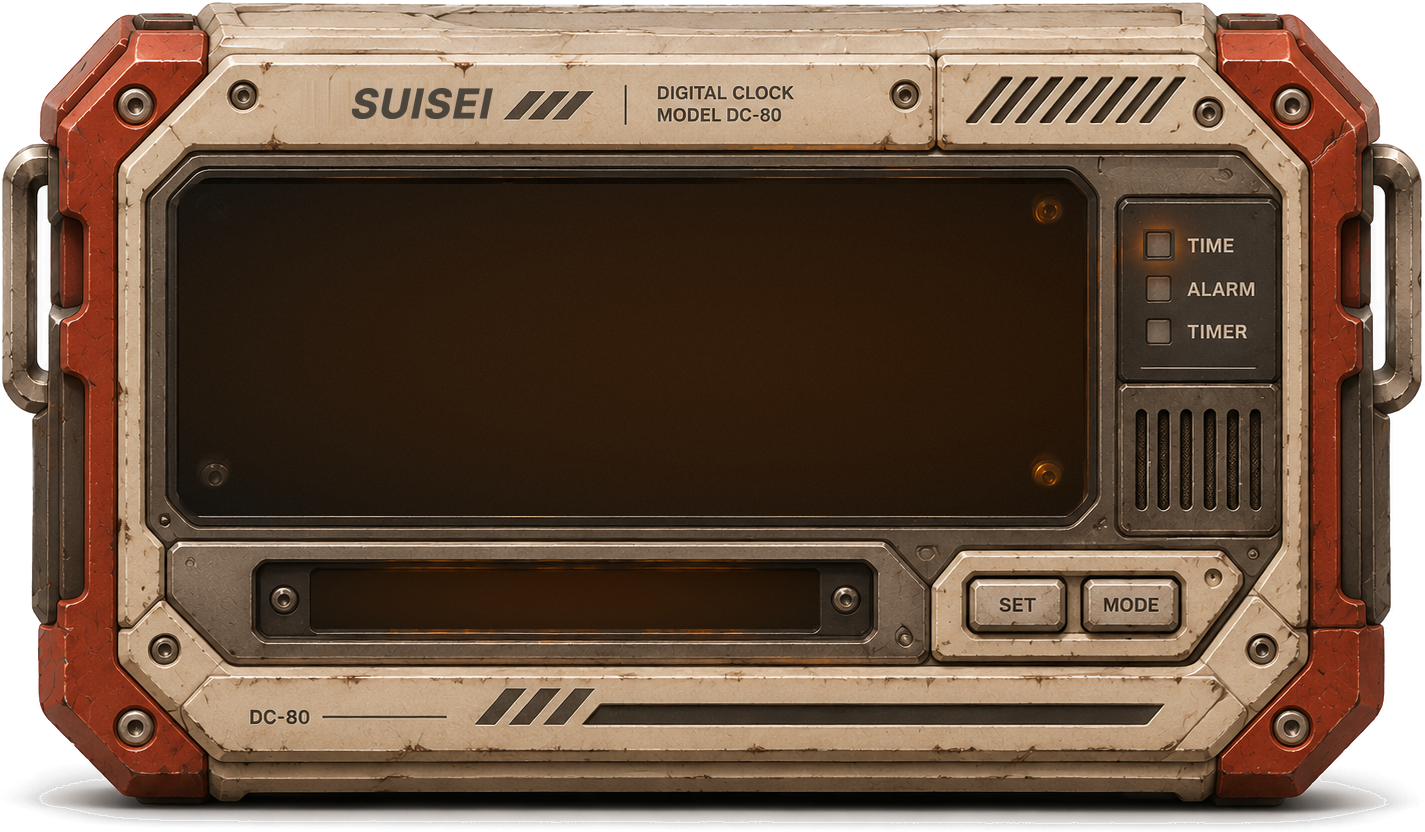
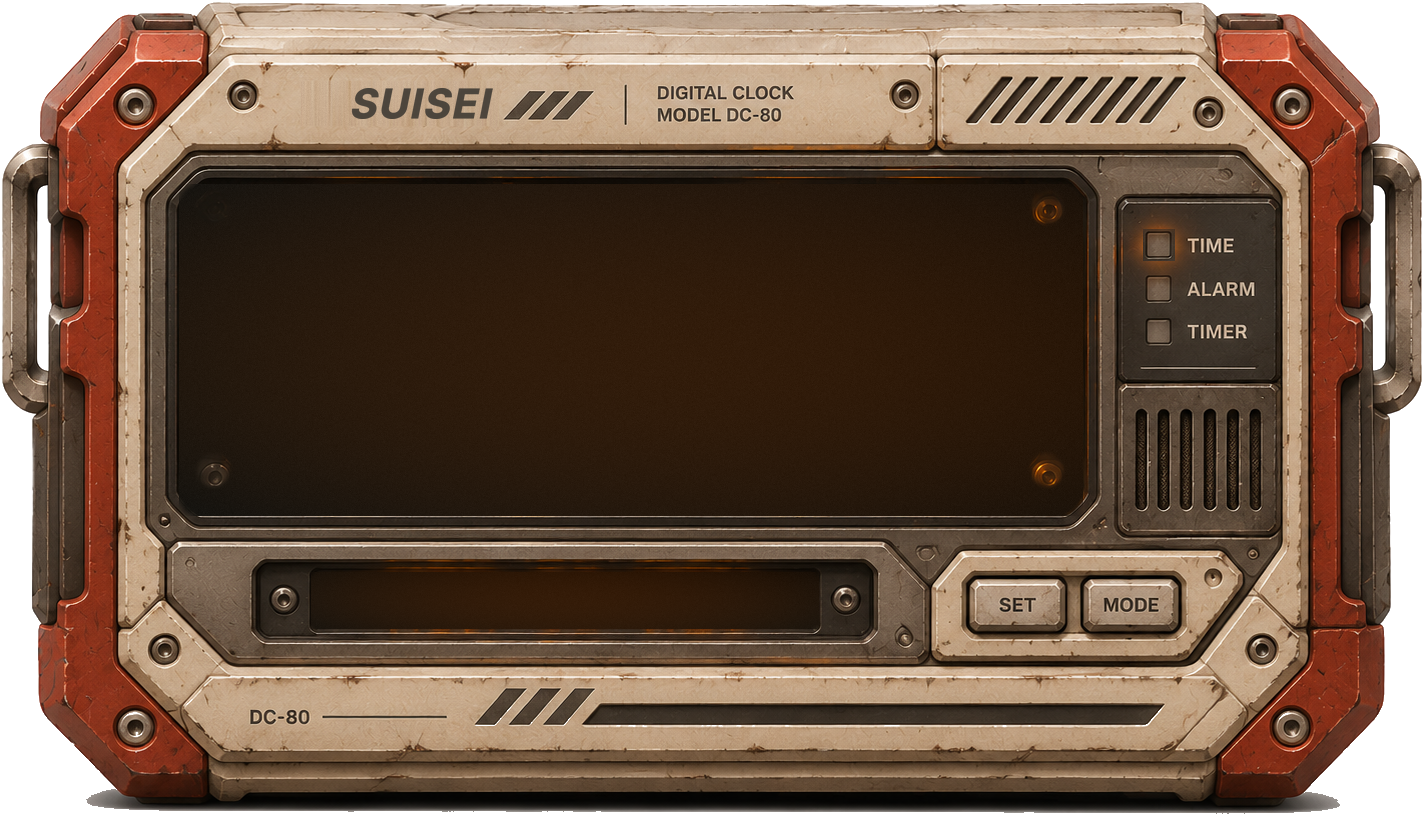
Retro Futurism clock: digits like the mock-up's tube; no white, no shadow
The digits are now mitred slabs (wide uprights, slimmer bars, the outer
corners just cut, a clear diagonal gap at each joint) with a lit, grainy
face and square colon dots: SevenSegment's new 'miter' and 'relief' (the
lock screen's little clock is unchanged; its 'top' is now 'digitTop', the
name Item already had). The white inside the handles' loops is gone, and
the shadow under the clock with it.

Claude-Session: https://claude.ai/code/session_015VvhJ21Y4bjWDEYJNoFXMP

diff --git a/themes/retro-futurism/home/.config/quickshell/components/SevenSegment.qml b/themes/retro-futurism/home/.config/quickshell/components/SevenSegment.qml
@@ -18,20 +18,33 @@ Canvas {
     property real cellW: 154
     property real cellH: 77
     property var digitX: [13, 42, 85, 114]              // each digit's lower-left corner
-    property real top: 16.5
+    property real digitTop: 16.5
     property real dw: 24                                // digit width, height, stroke
     property real dh: 45
     property real t: 4.8
     property real gap: 0.9                              // between one segment and the next
+    property real tv: 0                                 // the uprights' thickness (0: as t)
+    property real chamfer: 1                            // the ends: 1 pointed, less blunt
+    property bool miter: false                          // mitred joints instead (a real tube's)
     property real lean: 0.2                             // forward lean, as in the picture
     property real colonX: 78.5                          // the colon's upper and lower dot
     property real colonX2: 76
     property real dotR: 2.6
+    property bool dotSquare: false                      // the colon's dots square (rounded)
     property real glowWide: 9                           // the glow, in these units
     property real glowNear: 3
+    // a lit face on each segment, as on a real tube: a brighter core, darker
+    // edges, a fine grain (off: flat, as on the lock screen's little clock)
+    property bool relief: false
+    property color faceCore: "#ffbd46"
+    property color faceEdge: "#f29a22"
+    property color grainLight: Qt.rgba(1, 0.97, 0.85, 0.22)
+    property color grainDark: Qt.rgba(1, 0.75, 0.35, 0.18)
+    property real grainSize: 1.3
 
     onTextChanged: requestPaint()
     onLitChanged: requestPaint()
+    onReliefChanged: requestPaint()
     onColonChanged: requestPaint()
     onWidthChanged: requestPaint()
     onHeightChanged: requestPaint()
@@ -44,35 +57,46 @@ Canvas {
     })
 
     function segment(ctx, x, y, name) {
-        // a long hexagon, horizontal (a, g, d) or upright (b, c, e, f)
-        const w = dw, h = dh, s = t, half = s / 2, gap = face.gap;
-        const mid = h / 2;
-        function hor(x0, yc, len) {
-            ctx.moveTo(x0 + gap, yc);
-            ctx.lineTo(x0 + gap + half, yc - half);
-            ctx.lineTo(x0 + len - gap - half, yc - half);
-            ctx.lineTo(x0 + len - gap, yc);
-            ctx.lineTo(x0 + len - gap - half, yc + half);
-            ctx.lineTo(x0 + gap + half, yc + half);
+        // an eight-sided slab: bars t thick, uprights tv; the corners cut by
+        // chamfer of half the thickness (1: pointed ends, as on the lock
+        // screen; less: blunt slabs)
+        const w = dw, h = dh, hb = t / 2, hv = (tv > 0 ? tv : t) / 2, g = face.gap, mid = h / 2;
+        function oct(x0, y0, x1, y1, cx, cy) {
+            ctx.moveTo(x0, y0 + cy); ctx.lineTo(x0 + cx, y0); ctx.lineTo(x1 - cx, y0); ctx.lineTo(x1, y0 + cy);
+            ctx.lineTo(x1, y1 - cy); ctx.lineTo(x1 - cx, y1); ctx.lineTo(x0 + cx, y1); ctx.lineTo(x0, y1 - cy);
             ctx.closePath();
         }
-        function ver(xc, y0, len) {
-            ctx.moveTo(xc, y0 + gap);
-            ctx.lineTo(xc + half, y0 + gap + half);
-            ctx.lineTo(xc + half, y0 + len - gap - half);
-            ctx.lineTo(xc, y0 + len - gap);
-            ctx.lineTo(xc - half, y0 + len - gap - half);
-            ctx.lineTo(xc - half, y0 + gap + half);
-            ctx.closePath();
+        if (miter) {
+            // mitred: each bar a trapezoid, wide on the outside, its ends cut
+            // to meet the next along a diagonal gap
+            const v = 2 * hv, yc = y + mid;
+            const P = pts => { ctx.moveTo(pts[0][0], pts[0][1]); for (const q of pts.slice(1)) ctx.lineTo(q[0], q[1]); ctx.closePath(); };
+            // the outer corners left open: a bar's outer edge stops short
+            // (cb), an upright's too (cv)
+            const cb = 0.25 * v, cv = 0.25 * t;
+            switch (name) {
+            case "a": P([[x + cb + g, y], [x + w - cb - g, y], [x + w - v - g, y + t], [x + v + g, y + t]]); break;
+            case "d": P([[x + v + g, y + h - t], [x + w - v - g, y + h - t], [x + w - cb - g, y + h], [x + cb + g, y + h]]); break;
+            case "g": P([[x + g, yc], [x + v + g, yc - hb], [x + w - v - g, yc - hb], [x + w - g, yc],
+                         [x + w - v - g, yc + hb], [x + v + g, yc + hb]]); break;
+            case "f": P([[x, y + cv + g], [x + v, y + t + g], [x + v, yc - hb - g], [x, yc - g]]); break;
+            case "e": P([[x, yc + g], [x + v, yc + hb + g], [x + v, y + h - t - g], [x, y + h - cv - g]]); break;
+            case "b": P([[x + w, y + cv + g], [x + w, yc - g], [x + w - v, yc - hb - g], [x + w - v, y + t + g]]); break;
+            case "c": P([[x + w, yc + g], [x + w, y + h - cv - g], [x + w - v, y + h - t - g], [x + w - v, yc + hb + g]]); break;
+            }
+            return;
         }
+        const cb = chamfer * hb, cv = chamfer * hv;
+        function hor(yc) { oct(x + g, yc - hb, x + w - g, yc + hb, Math.min(cb, hb), cb); }
+        function ver(xc, y0, y1) { oct(xc - hv, y0 + g, xc + hv, y1 - g, cv, Math.min(cv, hv)); }
         switch (name) {
-        case "a": hor(x, y + half, w); break;
-        case "g": hor(x, y + mid, w); break;
-        case "d": hor(x, y + h - half, w); break;
-        case "f": ver(x + half, y + half, mid - half); break;
-        case "b": ver(x + w - half, y + half, mid - half); break;
-        case "e": ver(x + half, y + mid, mid - half); break;
-        case "c": ver(x + w - half, y + mid, mid - half); break;
+        case "a": hor(y + hb); break;
+        case "g": hor(y + mid); break;
+        case "d": hor(y + h - hb); break;
+        case "f": ver(x + hv, y + hb, y + mid); break;
+        case "b": ver(x + w - hv, y + hb, y + mid); break;
+        case "e": ver(x + hv, y + mid, y + h - hb); break;
+        case "c": ver(x + w - hv, y + mid, y + h - hb); break;
         }
     }
 
@@ -80,16 +104,59 @@ Canvas {
         const on = segs[ch] ?? "";
         ctx.beginPath();
         for (const n of "abcdefg")
-            if ((which === "on") === (on.indexOf(n) >= 0)) segment(ctx, x, top, n);
+            if ((which === "on") === (on.indexOf(n) >= 0)) segment(ctx, x, digitTop, n);
         ctx.fill();
+    }
+
+    // a segment's box: [horizontal, x0, y0, x1, y1]
+    function segBox(x, y, name) {
+        const w = dw, h = dh, hb = t / 2, sv = tv > 0 ? tv : t, mid = h / 2;
+        switch (name) {
+        case "a": return [true, x, y, x + w, y + t];
+        case "g": return [true, x, y + mid - hb, x + w, y + mid + hb];
+        case "d": return [true, x, y + h - t, x + w, y + h];
+        case "f": return [false, x, y, x + sv, y + mid];
+        case "b": return [false, x + w - sv, y, x + w, y + mid];
+        case "e": return [false, x, y + mid, x + sv, y + h];
+        default:  return [false, x + w - sv, y + mid, x + w, y + h];
+        }
+    }
+    // the lit segments' faces, each its own: shaded across, and a grain that
+    // stays put from one paint to the next
+    function faces(ctx, x, ch, seed) {
+        const on = segs[ch] ?? "";
+        for (const n of "abcdefg") {
+            if (on.indexOf(n) < 0) continue;
+            const b = segBox(x, digitTop, n);
+            const g = b[0] ? ctx.createLinearGradient(0, b[2], 0, b[4]) : ctx.createLinearGradient(b[1], 0, b[3], 0);
+            g.addColorStop(0, faceEdge); g.addColorStop(0.42, faceCore);
+            g.addColorStop(0.58, faceCore); g.addColorStop(1, faceEdge);
+            ctx.save();
+            ctx.beginPath(); segment(ctx, x, digitTop, n); ctx.clip();
+            ctx.fillStyle = g;
+            ctx.fillRect(b[1] - 2, b[2] - 2, b[3] - b[1] + 4, b[4] - b[2] + 4);
+            let r = (seed * 7919 + n.charCodeAt(0) * 131) % 2147483647 + 1;
+            const next = () => { r = (r * 16807) % 2147483647; return r / 2147483647; };
+            const count = Math.round((b[3] - b[1]) * (b[4] - b[2]) / 22);
+            for (let i = 0; i < count; i++) {
+                const px = b[1] + next() * (b[3] - b[1]), py = b[2] + next() * (b[4] - b[2]);
+                ctx.fillStyle = next() < 0.5 ? grainLight : grainDark;
+                ctx.fillRect(px, py, grainSize, grainSize);
+            }
+            ctx.restore();
+        }
     }
 
     function colonDots(ctx) {
         const r = dotR;
         ctx.beginPath();
-        for (const [cx, cy] of [[colonX, top + dh * 0.3], [colonX2, top + dh * 0.72]]) {
-            ctx.moveTo(cx + r, cy);
-            ctx.arc(cx, cy, r, 0, Math.PI * 2);
+        for (const [cx, cy] of [[colonX, digitTop + dh * 0.3], [colonX2, digitTop + dh * 0.72]]) {
+            if (dotSquare) {
+                ctx.roundedRect(cx - r, cy - r, 2 * r, 2 * r, r * 0.25, r * 0.25);
+            } else {
+                ctx.moveTo(cx + r, cy);
+                ctx.arc(cx, cy, r, 0, Math.PI * 2);
+            }
         }
         ctx.fill();
     }
@@ -100,7 +167,7 @@ Canvas {
         ctx.clearRect(0, 0, width, height);
         ctx.scale(width / cellW, height / cellH);
         // lean forward about the digits' baseline
-        const base = top + dh;
+        const base = digitTop + dh;
         ctx.transform(1, 0, -lean, 1, lean * base, 0);
 
         const chars = (text.replace(":", "") + "    ").slice(0, 4);
@@ -115,6 +182,10 @@ Canvas {
             ctx.shadowBlur = blur * width / cellW;
             for (let i = 0; i < 4; i++) digit(ctx, digitX[i], chars[i], "on");
             if (colon) colonDots(ctx);
+        }
+        if (relief) {
+            ctx.shadowBlur = 0;
+            for (let i = 0; i < 4; i++) faces(ctx, digitX[i], chars[i], i + 1);
         }
     }
 }

diff --git a/themes/retro-futurism/home/.config/quickshell/widgets/clock/Main.qml b/themes/retro-futurism/home/.config/quickshell/widgets/clock/Main.qml
@@ -180,11 +180,12 @@ Widget {
             width: 800; height: 270
             cellW: 800; cellH: 270
             digitX: [30, 194, 446, 608]
-            top: 23; dw: 140; dh: 221; t: 28; gap: 4; lean: 0.05
-            colonX: 394.25; colonX2: 392.4; dotR: 14
-            glowWide: 26; glowNear: 8
-            lit: "#ffad38"; glow: "#ff8a1e"
-            unlit: Qt.rgba(1, 0.6, 0.2, 0.055)
+            digitTop: 23; dw: 140; dh: 221; t: 25; tv: 32; miter: true; gap: 8; lean: 0.05
+            colonX: 394.25; colonX2: 392.4; dotR: 14.5; dotSquare: true
+            glowWide: 18; glowNear: 5
+            lit: "#f7a030"; glow: "#ff8a1e"
+            unlit: Qt.rgba(1, 0.6, 0.2, 0.035)
+            relief: true
             text: self.pairs.slice(0, 2) + ":" + self.pairs.slice(2)
             colon: self.mode === 0 && self.ringing === "" ? clock.date.getSeconds() % 2 === 0
                  : self.ringing !== "" ? self.blink : true

diff --git a/themes/retro-futurism/tools/make_clock.py b/themes/retro-futurism/tools/make_clock.py
@@ -4,7 +4,7 @@
     python3 tools/make_clock.py art/ClockWidget.png home/.config/quickshell/widgets/clock
 
 Makes, in the widget's folder:
-    clock.png       the clock lifted off its white ground (its shadow kept),
+    clock.png       the clock lifted off its white ground (no shadow),
                     what the widget draws erased: the digits and their glow,
                     the date's dots, the lit lamp (made like the others);
                     the brand made SUISEI (as the lock screen's clock)
@@ -132,24 +132,31 @@ ox, oy = 572 - layer.width, 192
 reg = img[oy:oy + h, ox:ox + layer.width]
 reg[:] = reg * (1 - ink[..., None]) + np.array([70, 64, 56]) * ink[..., None]
 
-# ---- off the white: flood the ground in from the corners; the shadow kept
+# ---- off the white: the ground, every patch of it (also inside the
+# handles' loops, which the corners cannot reach), and no shadow kept
 lum0 = src0.mean(2); sat0 = src0.max(2) - src0.min(2)
-ground = (lum0 > 226) & (sat0 < 22)
+ground = (lum0 > 222) & (sat0 < 24)
 bg = np.zeros((H, W), bool)
-q = deque([(0, 0), (W - 1, 0), (0, H - 1), (W - 1, H - 1)])
-for px, py in q: bg[py, px] = True
-while q:
-    px, py = q.popleft()
-    for nx, ny in ((px + 1, py), (px - 1, py), (px, py + 1), (px, py - 1)):
-        if 0 <= nx < W and 0 <= ny < H and ground[ny, nx] and not bg[ny, nx]:
-            bg[ny, nx] = True; q.append((nx, ny))
-# soft edge: pixels of the clock touching the ground, eased against it
+seen = np.zeros((H, W), bool)
+for sy in range(0, H, 2):
+    for sx in np.nonzero(ground[sy] & ~seen[sy])[0]:
+        comp = [(sx, sy)]; seen[sy, sx] = True; q = deque(comp)
+        while q:
+            px, py = q.popleft()
+            for nx, ny in ((px + 1, py), (px - 1, py), (px, py + 1), (px, py - 1)):
+                if 0 <= nx < W and 0 <= ny < H and ground[ny, nx] and not seen[ny, nx]:
+                    seen[ny, nx] = True; q.append((nx, ny)); comp.append((nx, ny))
+        if len(comp) > 300:                     # a glint on the metal is far smaller
+            xs_, ys_ = zip(*comp); bg[list(ys_), list(xs_)] = True
+# the shadow under the clock (soft grey on the ground) goes too: whatever
+# below its foot is lighter than its darkest metal
+foot = np.zeros((H, W), bool); foot[800:, :] = True
+bg |= foot & (lum0 > 150) & (sat0 < 30)
 edge = ~bg & grow(bg, 1)
-shadow = np.clip((250 - lum0) / 250 * 1.5, 0, 0.55)
-alpha = np.where(bg, shadow, 1.0)
+alpha = np.where(bg, 0.0, 1.0)
 alpha = np.where(edge, np.clip((255 - lum0) / 70, 0.35, 1), alpha)
 rgb = np.where(bg[..., None], 0, img)
-ys, xs = np.nonzero(~bg | (alpha > 0.03))
+ys, xs = np.nonzero(alpha > 0.03)
 X0, Y0 = int(xs.min()) - 2, int(ys.min()) - 2
 X1, Y1 = int(xs.max()) + 3, int(ys.max()) + 3
 Image.fromarray(np.dstack([np.clip(rgb, 0, 255), alpha * 255])[Y0:Y1, X0:X1].astype('uint8'), 'RGBA') \
